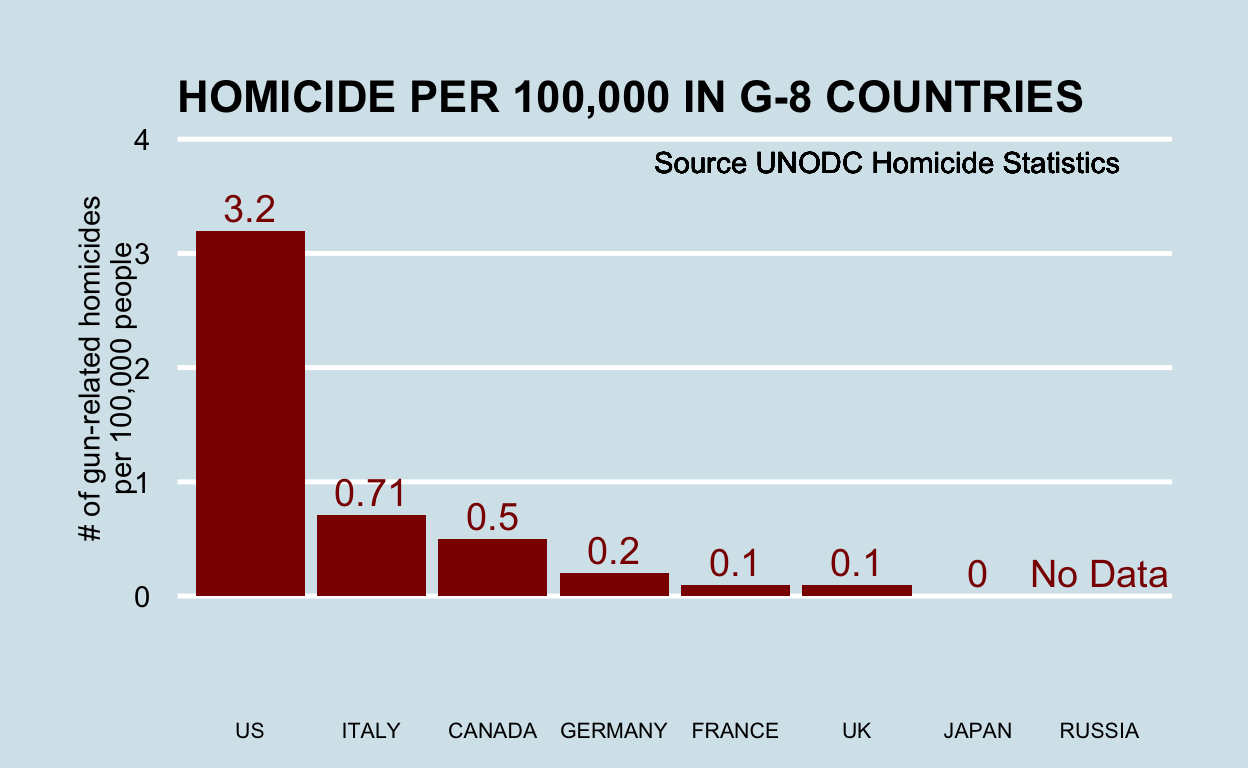
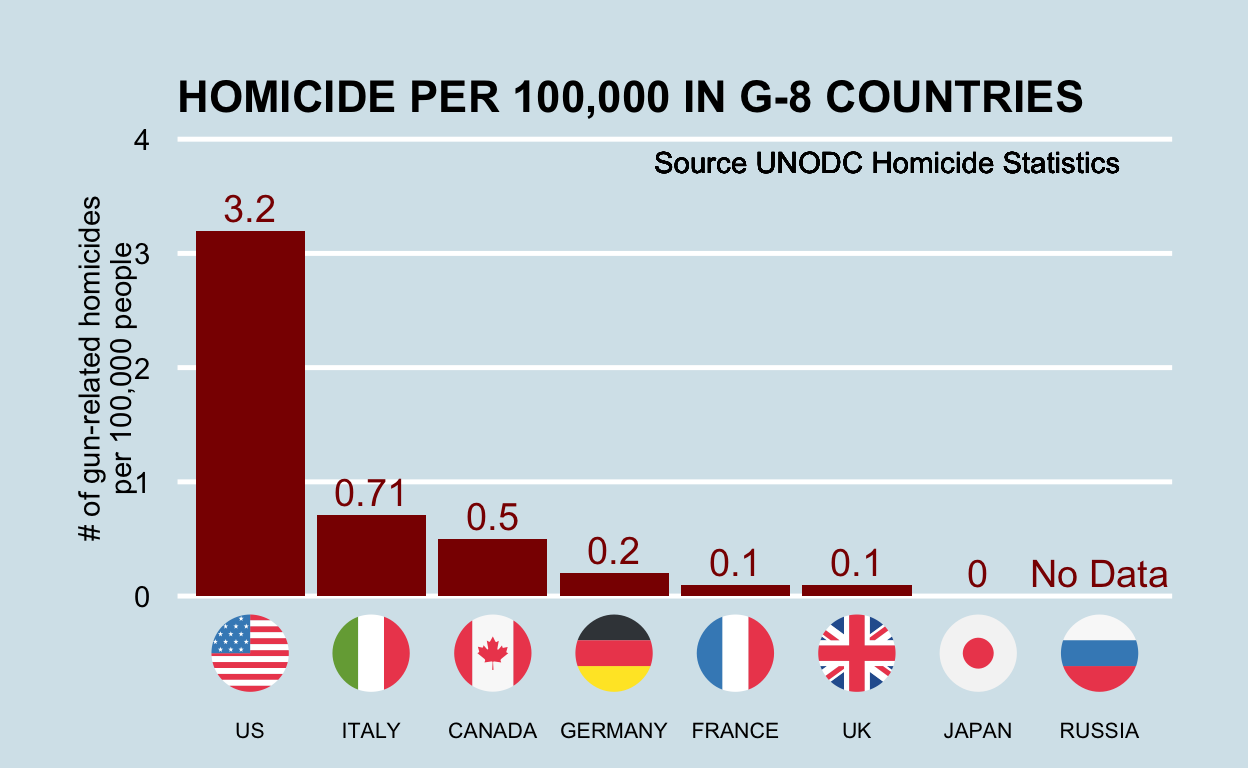
Fixing missing flags in a post.

diff --git a/docs/posts/2019-08-28-you-can-replicate-almost-any-plot-with-ggplot2/index.html b/docs/posts/2019-08-28-you-can-replicate-almost-any-plot-with-ggplot2/index.html
@@ -116,7 +116,7 @@ code span.wa { color: #5e5e5e; font-style: italic; } /* Warning */
 <!--/radix_placeholder_rmarkdown_metadata-->
   
   <script type="text/json" id="radix-resource-manifest">
-  {"type":"character","attributes":{},"value":["index_files/figure-html/fivethirtyeight-densities-1.png","index_files/figure-html/murder-rate-example-1-1.png","index_files/figure-html/murder-rate-example-2-1.png","index_files/figure-html/regents-exams-example-1.png","index_files/figure-html/wsj-vaccines-example-1.png","index_files/figure-html5/fivethirtyeight-densities-1.png","index_files/figure-html5/murder-rate-example-1-1.png","index_files/figure-html5/murder-rate-example-2-1.png","index_files/figure-html5/regents-exams-example-1.png","index_files/figure-html5/wsj-vaccines-example-1.png"]}
+  {"type":"character","attributes":{},"value":["index_files/anchor-4.2.2/anchor.min.js","index_files/bowser-1.9.3/bowser.min.js","index_files/distill-2.2.21/template.v2.js","index_files/figure-html/fivethirtyeight-densities-1.png","index_files/figure-html/murder-rate-example-1-1.png","index_files/figure-html/murder-rate-example-2-1.png","index_files/figure-html/regents-exams-example-1.png","index_files/figure-html/wsj-vaccines-example-1.png","index_files/figure-html5/fivethirtyeight-densities-1.png","index_files/figure-html5/murder-rate-example-1-1.png","index_files/figure-html5/murder-rate-example-2-1.png","index_files/figure-html5/regents-exams-example-1.png","index_files/figure-html5/wsj-vaccines-example-1.png","index_files/header-attrs-2.18/header-attrs.js","index_files/jquery-3.6.0/jquery-3.6.0.js","index_files/jquery-3.6.0/jquery-3.6.0.min.js","index_files/jquery-3.6.0/jquery-3.6.0.min.map","index_files/popper-2.6.0/popper.min.js","index_files/tippy-6.2.7/tippy-bundle.umd.min.js","index_files/tippy-6.2.7/tippy-light-border.css","index_files/tippy-6.2.7/tippy.css","index_files/tippy-6.2.7/tippy.umd.min.js","index_files/webcomponents-2.0.0/webcomponents.js"]}
   </script>
   <!--radix_placeholder_navigation_in_header-->
 <meta name="distill:offset" content="../.."/>
@@ -463,8 +463,8 @@ d-title {
 </style>
 
 <script src="../../site_libs/jquery-3.6.0/jquery-3.6.0.min.js"></script>
-<link href="../../site_libs/font-awesome-5.1.0/css/all.css" rel="stylesheet"/>
-<link href="../../site_libs/font-awesome-5.1.0/css/v4-shims.css" rel="stylesheet"/>
+<link href="../../site_libs/font-awesome-6.2.1/css/all.min.css" rel="stylesheet"/>
+<link href="../../site_libs/font-awesome-6.2.1/css/v4-shims.min.css" rel="stylesheet"/>
 <script src="../../site_libs/headroom-0.9.4/headroom.min.js"></script>
 <script src="../../site_libs/autocomplete-0.37.1/autocomplete.min.js"></script>
 <script src="../../site_libs/fuse-6.4.1/fuse.min.js"></script>
@@ -2079,7 +2079,7 @@ document.addEventListener('DOMContentLoaded', function() {
 </script>
 
 <!--/radix_placeholder_distill-->
-  <script src="../../site_libs/header-attrs-2.18/header-attrs.js"></script>
+  <script src="../../site_libs/header-attrs-2.21/header-attrs.js"></script>
   <script src="../../site_libs/jquery-3.6.0/jquery-3.6.0.min.js"></script>
   <script src="../../site_libs/popper-2.6.0/popper.min.js"></script>
   <link href="../../site_libs/tippy-6.2.7/tippy.css" rel="stylesheet" />
@@ -2100,7 +2100,7 @@ document.addEventListener('DOMContentLoaded', function() {
 <!--radix_placeholder_front_matter-->
 
 <script id="distill-front-matter" type="text/json">
-{"title":"You can replicate almost any plot with R","authors":[{"author":"Rafael Irizarry","authorURL":"#","affiliation":"&nbsp;","affiliationURL":"#","orcidID":""}],"publishedDate":"2019-08-28T00:00:00.000-05:00","citationText":"Irizarry, 2019"}
+{"title":"You can replicate almost any plot with R","authors":[{"author":"Rafael Irizarry","authorURL":"#","affiliation":"&nbsp;","affiliationURL":"#","orcidID":""}],"publishedDate":"2019-08-28T00:00:00.000-04:00","citationText":"Irizarry, 2019"}
 </script>
 
 <!--/radix_placeholder_front_matter-->
@@ -2289,7 +2289,7 @@ document.addEventListener('DOMContentLoaded', function() {
 <span></span>
 <span><span class='va'>xx</span> <span class='op'>&lt;-</span> <span class='fu'><a href='https://rdrr.io/r/base/seq.html'>seq</a></span><span class='op'>(</span><span class='fl'>0</span>, <span class='fl'>75</span>, len <span class='op'>=</span> <span class='fl'>300</span><span class='op'>)</span></span>
 <span></span>
-<span><span class='va'>tmp_2</span> <span class='op'>&lt;-</span> <span class='fu'><a href='https://purrr.tidyverse.org/reference/map.html'>map_df</a></span><span class='op'>(</span><span class='fl'>1</span><span class='op'>:</span><span class='fl'>3</span>, <span class='kw'>function</span><span class='op'>(</span><span class='va'>i</span><span class='op'>)</span><span class='op'>{</span></span>
+<span><span class='va'>tmp_2</span> <span class='op'>&lt;-</span> <span class='fu'><a href='https://purrr.tidyverse.org/reference/map_dfr.html'>map_df</a></span><span class='op'>(</span><span class='fl'>1</span><span class='op'>:</span><span class='fl'>3</span>, <span class='kw'>function</span><span class='op'>(</span><span class='va'>i</span><span class='op'>)</span><span class='op'>{</span></span>
 <span>  <span class='fu'><a href='https://tibble.tidyverse.org/reference/tibble.html'>tibble</a></span><span class='op'>(</span>candidate <span class='op'>=</span> <span class='va'>tmp</span><span class='op'>$</span><span class='va'>candidate</span><span class='op'>[</span><span class='va'>i</span><span class='op'>]</span>,</span>
 <span>         avg <span class='op'>=</span> <span class='va'>tmp</span><span class='op'>$</span><span class='va'>avg</span><span class='op'>[</span><span class='va'>i</span><span class='op'>]</span>,</span>
 <span>         sd <span class='op'>=</span> <span class='va'>tmp</span><span class='op'>$</span><span class='va'>sd</span><span class='op'>[</span><span class='va'>i</span><span class='op'>]</span>,</span>
@@ -2297,7 +2297,7 @@ document.addEventListener('DOMContentLoaded', function() {
 <span>         y <span class='op'>=</span> <span class='fu'>my_dgamma</span><span class='op'>(</span><span class='va'>xx</span>, <span class='va'>tmp</span><span class='op'>$</span><span class='va'>avg</span><span class='op'>[</span><span class='va'>i</span><span class='op'>]</span>, <span class='va'>tmp</span><span class='op'>$</span><span class='va'>sd</span><span class='op'>[</span><span class='va'>i</span><span class='op'>]</span><span class='op'>)</span><span class='op'>)</span></span>
 <span><span class='op'>}</span><span class='op'>)</span></span>
 <span></span>
-<span><span class='va'>tmp_3</span> <span class='op'>&lt;-</span> <span class='fu'><a href='https://purrr.tidyverse.org/reference/map.html'>map_df</a></span><span class='op'>(</span><span class='fl'>1</span><span class='op'>:</span><span class='fl'>3</span>, <span class='kw'>function</span><span class='op'>(</span><span class='va'>i</span><span class='op'>)</span><span class='op'>{</span></span>
+<span><span class='va'>tmp_3</span> <span class='op'>&lt;-</span> <span class='fu'><a href='https://purrr.tidyverse.org/reference/map_dfr.html'>map_df</a></span><span class='op'>(</span><span class='fl'>1</span><span class='op'>:</span><span class='fl'>3</span>, <span class='kw'>function</span><span class='op'>(</span><span class='va'>i</span><span class='op'>)</span><span class='op'>{</span></span>
 <span>  <span class='va'>qq</span> <span class='op'>&lt;-</span> <span class='fu'>my_qgamma</span><span class='op'>(</span><span class='va'>tmp</span><span class='op'>$</span><span class='va'>avg</span><span class='op'>[</span><span class='va'>i</span><span class='op'>]</span>, <span class='va'>tmp</span><span class='op'>$</span><span class='va'>sd</span><span class='op'>[</span><span class='va'>i</span><span class='op'>]</span><span class='op'>)</span></span>
 <span>  <span class='va'>xx</span> <span class='op'>&lt;-</span> <span class='fu'><a href='https://rdrr.io/r/base/seq.html'>seq</a></span><span class='op'>(</span><span class='va'>qq</span><span class='op'>[</span><span class='fl'>1</span><span class='op'>]</span>, <span class='va'>qq</span><span class='op'>[</span><span class='fl'>2</span><span class='op'>]</span>, len <span class='op'>=</span> <span class='fl'>200</span><span class='op'>)</span></span>
 <span>  <span class='fu'><a href='https://tibble.tidyverse.org/reference/tibble.html'>tibble</a></span><span class='op'>(</span>candidate <span class='op'>=</span> <span class='va'>tmp</span><span class='op'>$</span><span class='va'>candidate</span><span class='op'>[</span><span class='va'>i</span><span class='op'>]</span>,</span>

diff --git a/_posts/2019-08-28-you-can-replicate-almost-any-plot-with-ggplot2/index.html b/_posts/2019-08-28-you-can-replicate-almost-any-plot-with-ggplot2/index.html
@@ -115,7 +115,7 @@ code span.wa { color: #5e5e5e; font-style: italic; } /* Warning */
   <!--/radix_placeholder_rmarkdown_metadata-->
   
   <script type="text/json" id="radix-resource-manifest">
-  {"type":"character","attributes":{},"value":["index_files/figure-html/fivethirtyeight-densities-1.png","index_files/figure-html/murder-rate-example-1-1.png","index_files/figure-html/murder-rate-example-2-1.png","index_files/figure-html/regents-exams-example-1.png","index_files/figure-html/wsj-vaccines-example-1.png","index_files/figure-html5/fivethirtyeight-densities-1.png","index_files/figure-html5/murder-rate-example-1-1.png","index_files/figure-html5/murder-rate-example-2-1.png","index_files/figure-html5/regents-exams-example-1.png","index_files/figure-html5/wsj-vaccines-example-1.png"]}
+  {"type":"character","attributes":{},"value":["index_files/anchor-4.2.2/anchor.min.js","index_files/bowser-1.9.3/bowser.min.js","index_files/distill-2.2.21/template.v2.js","index_files/figure-html/fivethirtyeight-densities-1.png","index_files/figure-html/murder-rate-example-1-1.png","index_files/figure-html/murder-rate-example-2-1.png","index_files/figure-html/regents-exams-example-1.png","index_files/figure-html/wsj-vaccines-example-1.png","index_files/figure-html5/fivethirtyeight-densities-1.png","index_files/figure-html5/murder-rate-example-1-1.png","index_files/figure-html5/murder-rate-example-2-1.png","index_files/figure-html5/regents-exams-example-1.png","index_files/figure-html5/wsj-vaccines-example-1.png","index_files/header-attrs-2.18/header-attrs.js","index_files/jquery-3.6.0/jquery-3.6.0.js","index_files/jquery-3.6.0/jquery-3.6.0.min.js","index_files/jquery-3.6.0/jquery-3.6.0.min.map","index_files/popper-2.6.0/popper.min.js","index_files/tippy-6.2.7/tippy-bundle.umd.min.js","index_files/tippy-6.2.7/tippy-light-border.css","index_files/tippy-6.2.7/tippy.css","index_files/tippy-6.2.7/tippy.umd.min.js","index_files/webcomponents-2.0.0/webcomponents.js"]}
   </script>
   <!--radix_placeholder_navigation_in_header-->
   <!--/radix_placeholder_navigation_in_header-->
@@ -1472,7 +1472,7 @@ code span.wa { color: #5e5e5e; font-style: italic; } /* Warning */
   </script>
 
   <!--/radix_placeholder_distill-->
-  <script src="index_files/header-attrs-2.18/header-attrs.js"></script>
+  <script src="index_files/header-attrs-2.21/header-attrs.js"></script>
   <script src="index_files/jquery-3.6.0/jquery-3.6.0.min.js"></script>
   <script src="index_files/popper-2.6.0/popper.min.js"></script>
   <link href="index_files/tippy-6.2.7/tippy.css" rel="stylesheet" />
@@ -1493,7 +1493,7 @@ code span.wa { color: #5e5e5e; font-style: italic; } /* Warning */
 <!--radix_placeholder_front_matter-->
 
 <script id="distill-front-matter" type="text/json">
-{"title":"You can replicate almost any plot with R","authors":[{"author":"Rafael Irizarry","authorURL":"#","affiliation":"&nbsp;","affiliationURL":"#","orcidID":""}],"publishedDate":"2019-08-28T00:00:00.000-05:00","citationText":"Irizarry, 2019"}
+{"title":"You can replicate almost any plot with R","authors":[{"author":"Rafael Irizarry","authorURL":"#","affiliation":"&nbsp;","affiliationURL":"#","orcidID":""}],"publishedDate":"2019-08-28T00:00:00.000-04:00","citationText":"Irizarry, 2019"}
 </script>
 
 <!--/radix_placeholder_front_matter-->
@@ -1665,7 +1665,7 @@ code span.wa { color: #5e5e5e; font-style: italic; } /* Warning */
 <span></span>
 <span><span class='va'>xx</span> <span class='op'>&lt;-</span> <span class='fu'><a href='https://rdrr.io/r/base/seq.html'>seq</a></span><span class='op'>(</span><span class='fl'>0</span>, <span class='fl'>75</span>, len <span class='op'>=</span> <span class='fl'>300</span><span class='op'>)</span></span>
 <span></span>
-<span><span class='va'>tmp_2</span> <span class='op'>&lt;-</span> <span class='fu'><a href='https://purrr.tidyverse.org/reference/map.html'>map_df</a></span><span class='op'>(</span><span class='fl'>1</span><span class='op'>:</span><span class='fl'>3</span>, <span class='kw'>function</span><span class='op'>(</span><span class='va'>i</span><span class='op'>)</span><span class='op'>{</span></span>
+<span><span class='va'>tmp_2</span> <span class='op'>&lt;-</span> <span class='fu'><a href='https://purrr.tidyverse.org/reference/map_dfr.html'>map_df</a></span><span class='op'>(</span><span class='fl'>1</span><span class='op'>:</span><span class='fl'>3</span>, <span class='kw'>function</span><span class='op'>(</span><span class='va'>i</span><span class='op'>)</span><span class='op'>{</span></span>
 <span>  <span class='fu'><a href='https://tibble.tidyverse.org/reference/tibble.html'>tibble</a></span><span class='op'>(</span>candidate <span class='op'>=</span> <span class='va'>tmp</span><span class='op'>$</span><span class='va'>candidate</span><span class='op'>[</span><span class='va'>i</span><span class='op'>]</span>,</span>
 <span>         avg <span class='op'>=</span> <span class='va'>tmp</span><span class='op'>$</span><span class='va'>avg</span><span class='op'>[</span><span class='va'>i</span><span class='op'>]</span>,</span>
 <span>         sd <span class='op'>=</span> <span class='va'>tmp</span><span class='op'>$</span><span class='va'>sd</span><span class='op'>[</span><span class='va'>i</span><span class='op'>]</span>,</span>
@@ -1673,7 +1673,7 @@ code span.wa { color: #5e5e5e; font-style: italic; } /* Warning */
 <span>         y <span class='op'>=</span> <span class='fu'>my_dgamma</span><span class='op'>(</span><span class='va'>xx</span>, <span class='va'>tmp</span><span class='op'>$</span><span class='va'>avg</span><span class='op'>[</span><span class='va'>i</span><span class='op'>]</span>, <span class='va'>tmp</span><span class='op'>$</span><span class='va'>sd</span><span class='op'>[</span><span class='va'>i</span><span class='op'>]</span><span class='op'>)</span><span class='op'>)</span></span>
 <span><span class='op'>}</span><span class='op'>)</span></span>
 <span></span>
-<span><span class='va'>tmp_3</span> <span class='op'>&lt;-</span> <span class='fu'><a href='https://purrr.tidyverse.org/reference/map.html'>map_df</a></span><span class='op'>(</span><span class='fl'>1</span><span class='op'>:</span><span class='fl'>3</span>, <span class='kw'>function</span><span class='op'>(</span><span class='va'>i</span><span class='op'>)</span><span class='op'>{</span></span>
+<span><span class='va'>tmp_3</span> <span class='op'>&lt;-</span> <span class='fu'><a href='https://purrr.tidyverse.org/reference/map_dfr.html'>map_df</a></span><span class='op'>(</span><span class='fl'>1</span><span class='op'>:</span><span class='fl'>3</span>, <span class='kw'>function</span><span class='op'>(</span><span class='va'>i</span><span class='op'>)</span><span class='op'>{</span></span>
 <span>  <span class='va'>qq</span> <span class='op'>&lt;-</span> <span class='fu'>my_qgamma</span><span class='op'>(</span><span class='va'>tmp</span><span class='op'>$</span><span class='va'>avg</span><span class='op'>[</span><span class='va'>i</span><span class='op'>]</span>, <span class='va'>tmp</span><span class='op'>$</span><span class='va'>sd</span><span class='op'>[</span><span class='va'>i</span><span class='op'>]</span><span class='op'>)</span></span>
 <span>  <span class='va'>xx</span> <span class='op'>&lt;-</span> <span class='fu'><a href='https://rdrr.io/r/base/seq.html'>seq</a></span><span class='op'>(</span><span class='va'>qq</span><span class='op'>[</span><span class='fl'>1</span><span class='op'>]</span>, <span class='va'>qq</span><span class='op'>[</span><span class='fl'>2</span><span class='op'>]</span>, len <span class='op'>=</span> <span class='fl'>200</span><span class='op'>)</span></span>
 <span>  <span class='fu'><a href='https://tibble.tidyverse.org/reference/tibble.html'>tibble</a></span><span class='op'>(</span>candidate <span class='op'>=</span> <span class='va'>tmp</span><span class='op'>$</span><span class='va'>candidate</span><span class='op'>[</span><span class='va'>i</span><span class='op'>]</span>,</span>

diff --git a/_posts/2019-08-28-you-can-replicate-almost-any-plot-with-ggplot2/index_files/header-attrs-2.21/header-attrs.js b/_posts/2019-08-28-you-can-replicate-almost-any-plot-with-ggplot2/index_files/header-attrs-2.21/header-attrs.js
@@ -1,0 +1,12 @@
+// Pandoc 2.9 adds attributes on both header and div. We remove the former (to
+// be compatible with the behavior of Pandoc < 2.8).
+document.addEventListener('DOMContentLoaded', function(e) {
+  var hs = document.querySelectorAll("div.section[class*='level'] > :first-child");
+  var i, h, a;
+  for (i = 0; i < hs.length; i++) {
+    h = hs[i];
+    if (!/^h[1-6]$/i.test(h.tagName)) continue;  // it should be a header h1-h6
+    a = h.attributes;
+    while (a.length > 0) h.removeAttribute(a[0].name);
+  }
+});

diff --git a/docs/posts/2019-08-28-you-can-replicate-almost-any-plot-with-ggplot2/index_files/header-attrs-2.18/header-attrs.js b/docs/posts/2019-08-28-you-can-replicate-almost-any-plot-with-ggplot2/index_files/header-attrs-2.18/header-attrs.js
@@ -1,0 +1,12 @@
+// Pandoc 2.9 adds attributes on both header and div. We remove the former (to
+// be compatible with the behavior of Pandoc < 2.8).
+document.addEventListener('DOMContentLoaded', function(e) {
+  var hs = document.querySelectorAll("div.section[class*='level'] > :first-child");
+  var i, h, a;
+  for (i = 0; i < hs.length; i++) {
+    h = hs[i];
+    if (!/^h[1-6]$/i.test(h.tagName)) continue;  // it should be a header h1-h6
+    a = h.attributes;
+    while (a.length > 0) h.removeAttribute(a[0].name);
+  }
+});

diff --git a/docs/index.html b/docs/index.html
@@ -8120,7 +8120,9 @@ function init_posts_list() {
 <div class="dt-author">Rafael Irizarry</div>
 </div>
 </div>
-<div class="thumbnail"></div>
+<div class="thumbnail">
+<img/>
+</div>
 <div class="description">
 <h2>The Big in Big Data relates to importance not size</h2>
 <div class="dt-tags"></div>
